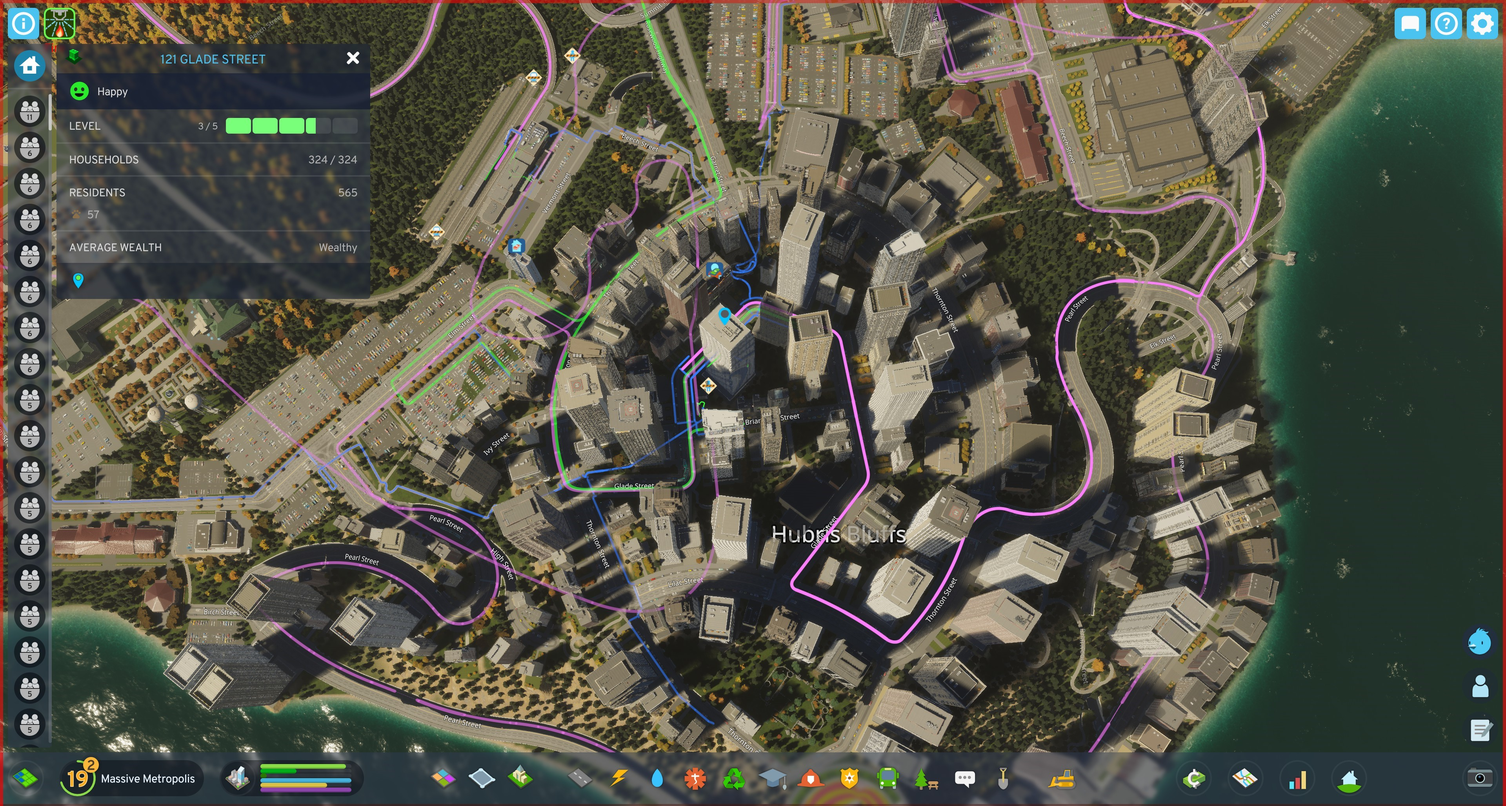
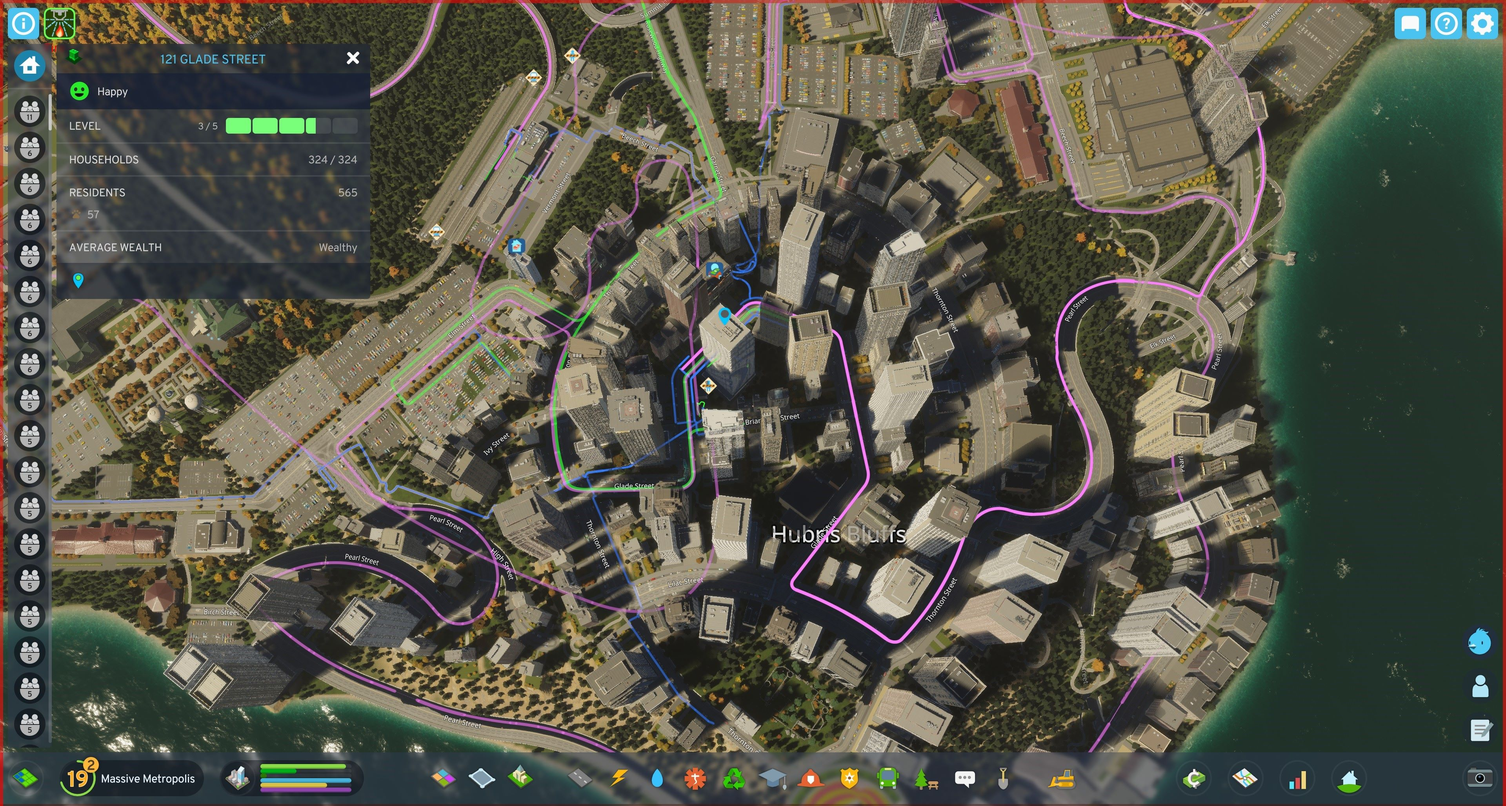
fix issue showing routes to businesses

diff --git a/DifficultyConfig/src/systems/BulldozeCostSystem.cs b/DifficultyConfig/src/systems/BulldozeCostSystem.cs
@@ -1,0 +1,62 @@
+using Colossal.Entities;
+using Game;
+using Game.City;
+using Game.Common;
+using Game.Prefabs;
+using Game.Simulation;
+using Game.Tools;
+using Game.UI.Localization;
+using Game.UI.Tooltip;
+using Game.UI.Widgets;
+using Unity.Collections;
+using Unity.Entities;
+
+namespace DifficultyConfig
+{
+	internal partial class BulldozeCostSystem : TooltipSystemBase
+	{
+		private DifficultySettings settings;
+		private ToolSystem toolSystem;
+		private BulldozeToolSystem bulldozeToolSystem;
+		private CitySystem citySystem;
+
+		private StringTooltip costTooltip;
+
+		protected override void OnCreate()
+		{
+			base.OnCreate();
+			this.toolSystem = World.GetExistingSystemManaged<ToolSystem>();
+			this.bulldozeToolSystem = World.GetExistingSystemManaged<BulldozeToolSystem>();
+
+			StringTooltip val = new StringTooltip
+			{
+				icon = "Media/Game/Icons/Money.svg",
+				path = "BulldozeCostToolSystem"//,
+				//path = PathSegment.op_Implicit("bulldozeCostTool")
+			};
+			/*((NumberTooltip<int>)val).unit = "money";
+			((IconTooltip)val).color = (TooltipColor)2;
+			((LabelIconTooltip)val).label = LocalizedString.Id("EconomyFixer.BULLDOZECOST_LABEL");*/
+			this.costTooltip = val;
+		}
+
+		protected override void OnStartRunning()
+		{
+			base.OnStartRunning();
+			this.settings = Mod.INSTANCE.settings();
+
+			
+		}
+
+		int frameCount = 0;
+		protected override void OnUpdate()
+		{
+			if (this.toolSystem.activeTool == this.bulldozeToolSystem)
+			{
+				this.costTooltip.value = "Bulldoze cost: " + this.frameCount++;
+				this.AddMouseTooltip(this.costTooltip);
+				//this.bulldozeToolSystem.
+			}
+		}
+	}
+}

diff --git a/EmploymentTracker/src/jobs/EntitySearchJob.cs b/EmploymentTracker/src/jobs/EntitySearchJob.cs
@@ -1,4 +1,5 @@
-using Game.Common;
+using Colossal;
+using Game.Common;
 using Unity.Burst;
 using Unity.Burst.Intrinsics;
 using Unity.Collections;
@@ -12,9 +13,12 @@ namespace EmploymentTracker
 		[ReadOnly]
 		public Entity searchTarget;
 		[ReadOnly]
+		public Entity searchTarget2;
+		[ReadOnly]
 		public ComponentTypeHandle<Target> targetHandle;
 		[ReadOnly]
 		public EntityTypeHandle entityHandle;
+		public NativeCounter searchCounter;
 
 		public NativeList<Entity> results;
 
@@ -24,14 +28,19 @@ namespace EmploymentTracker
 			NativeArray<Target> targets = chunk.GetNativeArray(ref this.targetHandle);
 			NativeArray<Entity> entities = chunk.GetNativeArray(this.entityHandle);
 			var chunkIterator = new ChunkEntityEnumerator(useEnabledMask, chunkEnabledMask, chunk.Count);
+			int count = 0;
 			while (chunkIterator.NextEntityIndex(out var i))
 			{
 				Target entityTarget = targets[i];
-				if (entityTarget.m_Target == this.searchTarget)
+				if (entityTarget.m_Target == this.searchTarget || entityTarget.m_Target == this.searchTarget2)
 				{
 					this.results.Add(entities[i]);
 				}
+
+				++count;
 			}
+
+			this.searchCounter.Count += count;
 		}
 	}
 }

diff --git a/EmploymentTracker/src/systems/routes/HighlightRoutesSystem.cs b/EmploymentTracker/src/systems/routes/HighlightRoutesSystem.cs
@@ -414,13 +414,30 @@ namespace EmploymentTracker
 			{
 				EntitySearchJob searchJob = new EntitySearchJob();
 				searchJob.searchTarget = this.selectedEntity;
+				if (EntityManager.TryGetBuffer<Renter>(this.selectedEntity, true, out var renterBuffer) && renterBuffer.Length > 0)
+				{
+					searchJob.searchTarget2 = renterBuffer[0].m_Renter;
+				}
+				else
+				{
+					searchJob.searchTarget2 = default;
+				}
+
 				searchJob.results = new NativeList<Entity>(128, Allocator.TempJob);
 				searchJob.targetHandle = SystemAPI.GetComponentTypeHandle<Target>(true);
 				searchJob.entityHandle = SystemAPI.GetEntityTypeHandle();
+				searchJob.searchCounter = new Colossal.NativeCounter(Allocator.TempJob);
 				var jobHandle = JobChunkExtensions.Schedule(searchJob, this.hasTargetQuery, default);
 
-
+				
 				jobHandle.Complete();
+
+				if (this.debugActiveBinding.value)
+				{
+					this.bindings["Search Count"] = searchJob.searchCounter.Count.ToString();
+				}
+					
+				searchJob.searchCounter.Dispose();
 
 				for (int i = 0; i < searchJob.results.Length; ++i)
 				{

diff --git a/DifficultyConfig/src/Mod.cs b/DifficultyConfig/src/Mod.cs
@@ -21,6 +21,7 @@ namespace DifficultyConfig
 			updateSystem.UpdateBefore<DifficultSystem>(SystemUpdatePhase.GameSimulation);
 			updateSystem.UpdateBefore<FireStarterSystem>(SystemUpdatePhase.GameSimulation);
 			updateSystem.UpdateBefore<CollapseCitySystem>(SystemUpdatePhase.GameSimulation);
+			updateSystem.UpdateBefore<BulldozeCostSystem>(SystemUpdatePhase.MainLoop);
 			//updateSystem.UpdateBefore<EmployeePresenceSystem>(SystemUpdatePhase.GameSimulation);
 
 			INSTANCE = this;

diff --git a/DifficultyConfig/src/patches/PatchGetGovernmentSubsidy.cs b/DifficultyConfig/src/patches/PatchGetGovernmentSubsidy.cs
@@ -1,5 +1,6 @@
 using Game.Simulation;
 using HarmonyLib;
+using Unity.Mathematics;
 
 namespace DifficultyConfig
 {
@@ -15,7 +16,7 @@ namespace DifficultyConfig
 					__result = -1000000000;
 					break;
 				case DifficultySettings.SubsidyType.NONE:
-					__result = 0;
+					__result = math.min(0, __result);
 					break;
 				case DifficultySettings.SubsidyType.DEFAULT:
 					break;
